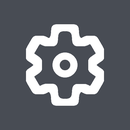
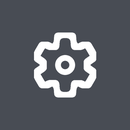
1.0.3: size tile symbols like LG's own tiles
- Stroke 4.5% of the tile (was 5.5%), measured on LG's Live TV tile on a C3
- Symbols scaled to 55% of the tile for wide shapes, 50% for squarish ones
- The icon script fits each symbol to size and compensates the line weight

Claude-Session: https://claude.ai/code/session_01GGffTudqFPDGB6KdvjosMT

Changed region(s): [[0.1846, 0.1846, 0.8, 0.8308]]

diff --git a/scripts/make-icons.py b/scripts/make-icons.py
@@ -12,6 +12,8 @@ itself show up as notches or a second, mismatched curve. Only the README
 picture is rounded here, since GitHub shows it as it is.
 """
 import math
+
+import numpy as np
 from pathlib import Path
 
 from PIL import Image, ImageChops, ImageDraw, ImageFilter, ImageFont
@@ -48,8 +50,12 @@ def rounded(im):
     return out
 
 
+STROKE = 0.045  # line weight as a share of the tile, as LG's own tiles (measured on a C3)
+_stroke = STROKE  # the weight while drawing, before the symbol is scaled to size
+
+
 def stroke(W):
-    return max(2, round(W * 0.055))
+    return max(2, round(W * _stroke))
 
 
 def outline(d, points, colour, width):
@@ -245,6 +251,52 @@ def lg_tv_guide(size):
     return im
 
 
+# ---- Size every symbol like LG's own tiles ----
+
+# Largest side of the symbol as a share of the tile, measured on LG's Live TV tile (C3):
+# wide symbols 55%. Squarish ones a little smaller, so they don't look heavier.
+WIDE, SQUARE = 0.55, 0.50
+
+
+def symbol_mask(im):
+    """The white symbol as an 8-bit mask, read off the solid background."""
+    a = np.asarray(im.convert('RGB')).astype(float)
+    bg = a[0, 0]
+    ch = int(np.argmax(255 - bg))  # the channel with most room between background and white
+    alpha = np.clip((a[..., ch] - bg[ch]) / max(1.0, 255 - bg[ch]), 0, 1)
+    return Image.fromarray((alpha * 255).astype('uint8'), 'L'), tuple(int(v) for v in bg)
+
+
+def fitted(draw, target):
+    """Draw the tile, then scale its symbol so the largest side is `target` of the tile,
+    with the stroke drawn heavier first so it ends up at STROKE after scaling."""
+    global _stroke
+
+    def render(size, weight):
+        global _stroke
+        _stroke = weight
+        try:
+            im = draw(size)
+        finally:
+            _stroke = STROKE
+        mask, bg = symbol_mask(im)
+        box = mask.point(lambda v: 255 if v > 32 else 0).getbbox()
+        return im, mask, bg, box
+
+    def wrapped(size):
+        im, mask, bg, box = render(size, STROKE)
+        W = im.size[0]
+        f = target * W / max(box[2] - box[0], box[3] - box[1])
+        im, mask, bg, box = render(size, STROKE / f)  # redraw with the compensated weight
+        f = target * W / max(box[2] - box[0], box[3] - box[1])
+        sym = mask.crop(box)
+        sym = sym.resize((max(1, round(sym.size[0] * f)), max(1, round(sym.size[1] * f))), Image.LANCZOS)
+        out = Image.new('RGBA', (W, W), bg + (255,))
+        out.paste(Image.new('RGBA', sym.size, WHITE + (255,)), (round((W - sym.size[0]) / 2), round((W - sym.size[1]) / 2)), sym)
+        return out
+    return wrapped
+
+
 def save(draw, folder):
     for size, name in ((80, 'icon.png'), (130, 'largeIcon.png')):
         im = draw(size)
@@ -252,9 +304,10 @@ def save(draw, folder):
 
 
 def main():
-    tiles = [(lg_settings, 'lgsettings'), (lg_quick_settings, 'lgquicksettings'),
-             (lg_notifications, 'lgnotifications'), (lg_live_tv, 'lglivetv'),
-             (lg_account, 'lgaccount'), (lg_search, 'lgsearch'), (lg_tv_guide, 'lgtvguide')]
+    tiles = [(fitted(lg_settings, SQUARE), 'lgsettings'), (fitted(lg_quick_settings, SQUARE), 'lgquicksettings'),
+             (fitted(lg_notifications, SQUARE), 'lgnotifications'), (fitted(lg_live_tv, WIDE), 'lglivetv'),
+             (fitted(lg_account, SQUARE), 'lgaccount'), (fitted(lg_search, SQUARE), 'lgsearch'),
+             (fitted(lg_tv_guide, WIDE), 'lgtvguide')]
     for draw, folder in tiles:
         save(draw, 'apps/' + folder)
     # README picture: all tiles in a row, rounded as a launcher shows them.
